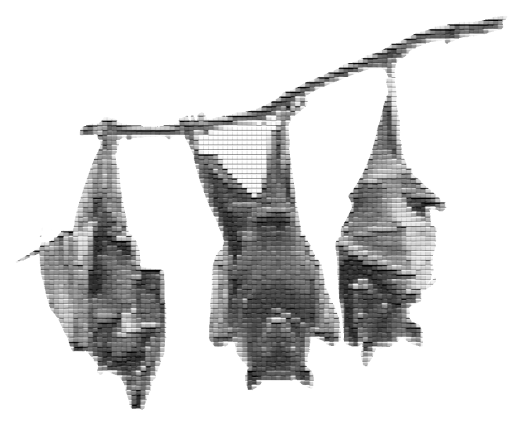
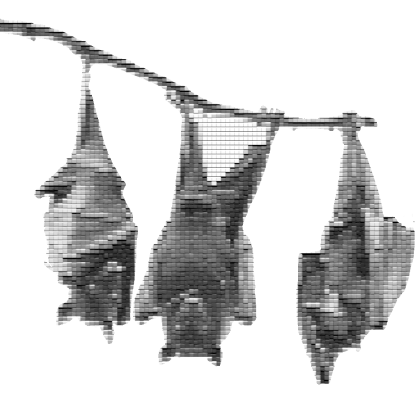
updates argument 1

diff --git a/index.html b/index.html
@@ -9,7 +9,7 @@
     </style>
     <link rel="stylesheet" href="style.css">
     <script src="leader-line.js"></script>
-    <script src="scroll.js"></script>
+    <!-- <script src="scroll.js"></script> -->
     <script src="https://unpkg.com/leader-line@1.0.7/leader-line.min.js"></script>
 
 </head>
@@ -53,57 +53,75 @@
             <h4>Negative effects on wildlife and nature</h4>        
             <p>The biggest pushback against wind energy is due to environmental concerns. The German economy ministry (BMWi) has pointed to the Federal Ministry of the Environment (BMU) as being responsible for blocking the expansion of wind energy. Legal challenges and regulatory changes have further complicated the landscape, posing a formidable challenge to meeting emissions reduction goals. Here are some of the nature conservation-based arguments against the development of wind energy in Germany, and the voices of people and organizations behind such arguments.</p>
             
-            <div class="container-argument1-content1">
+        <!--    <div class="container-argument1-content1">
                 <div class="image-argument1-content1">
                     <img src="images/bat.png" alt="" id="argument-image">
                 </div>
                 <div class="argument1-content1">
-                    <h4 style="color: #EFEEE9;">1. Displacement of wildlife</h4>
+                    <h4 style="color: #EFEEE9;">1. Pressure changes</h4>
                     <p>The construction of wind farms can lead to habitat fragmentation, disrupting ecosystems and wildlife areas. This can isolate animal populations, reducing genetic diversity and hindering natural migration, notably affecting bats and birds.</p>
                 </div>
             </div>
             <div class="argument1-content2">
                 <p>Wind energy stands tall as Germany's primary renewable power source, essential for the nation's shift away from fossil fuels. With one of the world's largest onshore wind capacities, Germany has made significant strides in efficiency and cost reduction. Since 2019, onshore wind has become Germany’s single most important electricity source, with an annual output growth of 25 percent over four years until 2023.</p>
+            </div> -->
+
+            <div class="container-argument1">
+                <div class="argument1-content1" id="argument1-content1">
+                    <h4 style="color: #EFEEE9;">1. Pressure changes</h4>
+                    <p>The construction of wind farms can lead to habitat fragmentation, disrupting ecosystems and wildlife areas. This can isolate animal populations, reducing genetic diversity and hindering natural migration, notably affecting bats and birds.</p>
+                </div>
+                    <img src="images/bats.png" alt="">
             </div>
-       
-            <div class="container-argument1-content3">
-                <div class="argument1-content3">
+
+            <div class="argument1-content2" id="argument1-content2">
+                <p>“The impact of a wind turbine on its environment is significantly greater than the sealed area alone. Many animals are killed by wind turbines, especially bats, birds and insects.” NABU, Landesverband Berlin [15]</p>
+            </div> 
+
+            <div class="container-argument1">
+               <img src="images/singingbirds.png" alt="">
+                <div class="argument1-content2" id="argument1-content3">
+                    <p>“If there are a lot of wind turbines in the way, the detours can lead to the birds becoming exhausted. The effects of this increased effort can be that some animals do not reach their breeding area in the south or miss the right time to breed.” NABU, Landesverband Berlin [15]</p>
+                </div>
+            </div>
+
+            <div class="container-argument1">
+                <img src="images/bat.png" alt="">
+                <div class="argument1-content2" id="argument1-content4">
+                    <p>Turbines pose a threat to certain bat species, creating a conflict between the development of renewable energy sources and the conservation of endangered species, often called a “green-green dilemma.” [19]</p>
+                </div>
+            </div>
+
+            <div class="argument1-content2" id="argument1-content5">
+                <p>“The impact of a wind turbine on its environment is significantly greater than the sealed area alone. Many animals are killed by wind turbines, especially bats, birds and insects.” NABU, Landesverband Berlin [15]</p>
+            </div> 
+
+            <div class="container-argument1">
+                <img src="images/windmill.png" alt="" class="windmill-image">
+                <img src="images/birds.png" alt="" class="overlay-image">
+                <div class="argument1-content1" id="argument1-content6">
                     <h4 style="color: #EFEEE9;">2. Pressure changes</h4>
                     <p>Wind energy stands tall as Germany's primary renewable power source, essential for the nation's shift away from fossil fuels. With one of the world's largest onshore wind capacities, Germany has made significant strides in efficiency and cost reduction. Since 2019, onshore wind has become Germany’s single most important electricity source, with an annual output growth of 25 percent over four years until 2023.</p>
                 </div>
-                <div class="image-argument1-content3">
-                    <img src="images/windmill.png" alt="" >
-                </div>
-                <img src="images/birds.png" alt="" class="overlay-image">
             </div>   
 
-            <div class="argument1-content4">
-                <p>Wind energy stands tall as Germany's primary renewable power source, essential for the nation's shift away from fossil fuels. With one of the world's largest onshore wind capacities, Germany has made significant strides in efficiency and cost reduction. Since 2019, onshore wind has become Germany’s single most important electricity source, with an annual output growth of 25 percent over four years until 2023.</p>
-            </div> 
-
-            <div class="container-argument1-content5">
-                <div class="image-argument1-content5">
-                    <img src="images/justice.png" alt="">
+            <div class="container-argument1">
+                <div class="argument1-content2" id="argument1-content7">
+                    <p><b>Environmental impact beyond perimeter of wind farms:</b>
+                        45 lawsuits were initiated by NABU between 2010 and 2019 due to incorrect planning for wind energy. Not because the expansion of wind energy should be stopped, but because projects and plans repeatedly blatantly violate nature conservation law. [16]</p>
                 </div>
-                <div class="argument1-content5">
-                    <p>Violation of nature conservations laws: 
-                        45 lawsuits were initiated by NABU between 2010 and 2019 due to incorrect planning for wind energy. Not because the expansion of wind energy should be stopped, but because projects and plans repeatedly blatantly violate nature conservation law. [2]</p>
-                </div>
+                <img src="images/justice.png" alt="">
             </div>
 
-            <div class="argument1-content6">
-                <p>Wind energy stands tall as Germany's primary renewable power source, essential for the nation's shift away from fossil fuels. With one of the world's largest onshore wind capacities, Germany has made significant strides in efficiency and cost reduction. Since 2019, onshore wind has become Germany’s single most important electricity source, with an annual output growth of 25 percent over four years until 2023.</p>
-            </div>
-                
-            <div class="container-argument1-content5">
-                <div class="argument1-content7">
-                    <p>Wind energy stands tall as Germany's primary renewable power source, essential for the nation's shift away from fossil fuels. With one of the world's largest onshore wind capacities, Germany has made significant strides in efficiency and cost reduction. Since 2019, onshore wind has become Germany’s single most important electricity source, with an annual output growth of 25 percent over four years until 2023.</p>
-                </div>
-                <div class="image-argument1-content5">
-                    <img src="images/birds2.png" alt="">
+            <div class="container-argument1">
+                <img src="images/birds2.png" alt="">
+                <div class="argument1-content2" id="argument1-content8">
+                    <p>"In times of probably the greatest loss of biodiversity since the extinction of the dinosaurs, this is a terrible, fatal development,"
+                        Annette Müller-Zietzke, a local fighting the development of wind turbines in sections of the Reinhardswald, a forest in Hessen [16]</p>
                 </div>
             </div>
-            
+
+        
             
             <div class="textbox picture-box">
                 <h4>The big Pictures</h4>

diff --git a/style.css b/style.css
@@ -172,14 +172,15 @@ header {
     position: relative;
 }
 
+/*
 .container-argument1-content1 {
     display: flex;
     align-items: center;
 }
 
 .image-argument1-content1 img {
-    will-change: transform; /* Legt fest, dass das Element eine Transformation erfahren wird */
-    transition: transform 3s ease; /* Animationsübergang */
+    will-change: transform; /* Legt fest, dass das Element eine Transformation erfahren wird *
+    transition: transform 3s ease; /* Animationsübergang *
 }
 
 .container-argument1-content3 {
@@ -196,17 +197,19 @@ header {
     top: 1000px;
     right: 200px;
     z-index: 1; /* Damit das Bild über dem Hintergrundbild liegt */
-    /* Weitere Anpassungen nach Bedarf */
+    /* Weitere Anpassungen nach Bedarf *
 }
 
 .image-argument1-content3 {
     position: relative;
     left: 100px;
+}*/
+
+.container-argument1 {
+    display: flex;
+    align-items: center;
+    justify-content: flex-end;
 }
-
-
-
-
 
 .argument1-content1 {
     background-color: var(--primary-color);
@@ -215,6 +218,7 @@ header {
     border-radius: 25px;
     max-width: 800px;
     margin-top: 50px;
+    margin: auto;
 }
 
 .argument1-content2 {
@@ -223,58 +227,25 @@ header {
     border-radius: 25px;
     max-width: 600px; /* Maximale Breite der Box */
     margin-top: 50px;
-    align-items: center;
-}
-
-.argument1-content3 {
-    background-color: var(--primary-color);
-    color: var(--background-color);
-    padding: 20px;
-    border-radius: 25px;
-    max-width: 800px;
-}
-
-.argument1-content4 {
-    background-color: var(--textbox-color);
-    padding: 20px;
-    border-radius: 25px;
-    max-width: 600px; /* Maximale Breite der Box */
-    margin: auto; /* Zentrieren der Box mit automatischen Seitenrändern */
-}
-
-.argument1-content5 {
-    background-color: var(--textbox-color);
-    padding: 20px;
-    border-radius: 25px;
-    max-width: 600px; /* Maximale Breite der Box */
     margin: auto;
 }
 
-.container-argument1-content5 {
-    display: flex;
-    align-items: center;
-    justify-content: flex-end;
+.overlay-image {
+    position: absolute;
+    top: 1700px;
+    left: -50px;
+    z-index: 1; /* Bild über Hintergrundbild */
+}
+
+.windmill-image {
+    position: relative;
+    left: 50px;
 }
 
 
 
-.argument1-content6 {
-    background-color: var(--textbox-color);
-    padding: 20px;
-    border-radius: 25px;
-    max-width: 600px; /* Maximale Breite der Box */
 
-    margin: auto;
-}
 
-.argument1-content7 {
-    background-color: var(--textbox-color);
-    padding: 20px;
-    border-radius: 25px;
-    max-width: 600px; /* Maximale Breite der Box */
-    align-items: center;
-    margin-right: 70px;
-}
 
 
 .argument1-bigpicture {

diff --git a/leader-line.js b/leader-line.js
@@ -1,15 +1,19 @@
 window.addEventListener('DOMContentLoaded', (event) => {
-  connectElements('container-argument1-content1', 'argument1-content2');
+  connectElements('argument1-content1', 'argument1-content2');
+  connectElements('argument1-content2', 'argument1-content3');
   connectElements('argument1-content3', 'argument1-content4');
   connectElements('argument1-content4', 'argument1-content5');
-  connectElements('argument1-content5', 'argument1-content6');
   connectElements('argument1-content6', 'argument1-content7');
-  //connectElements('argument1-bigpicture', 'argument1-quote');
+  connectElements('argument1-content7', 'argument1-content8');
 });
 
-function connectElements(className1, className2) {
-  const elements1 = document.getElementsByClassName(className1);
-  const elements2 = document.getElementsByClassName(className2);
+//function connectElements(className1, className2) {
+  //const elements1 = document.getElementsByClassName(className1);
+  //const elements2 = document.getElementsByClassName(className2);
+
+  function connectElements(id1, id2) {
+    const elements1 = document.getElementById(id1);
+    const elements2 = document.getElementById(id2);
 
   // Da getElementsByClassName eine NodeList zurückgibt, iterieren wir durch die Elemente und verbinden sie paarweise
   for (let i = 0; i < elements1.length; i++) {
